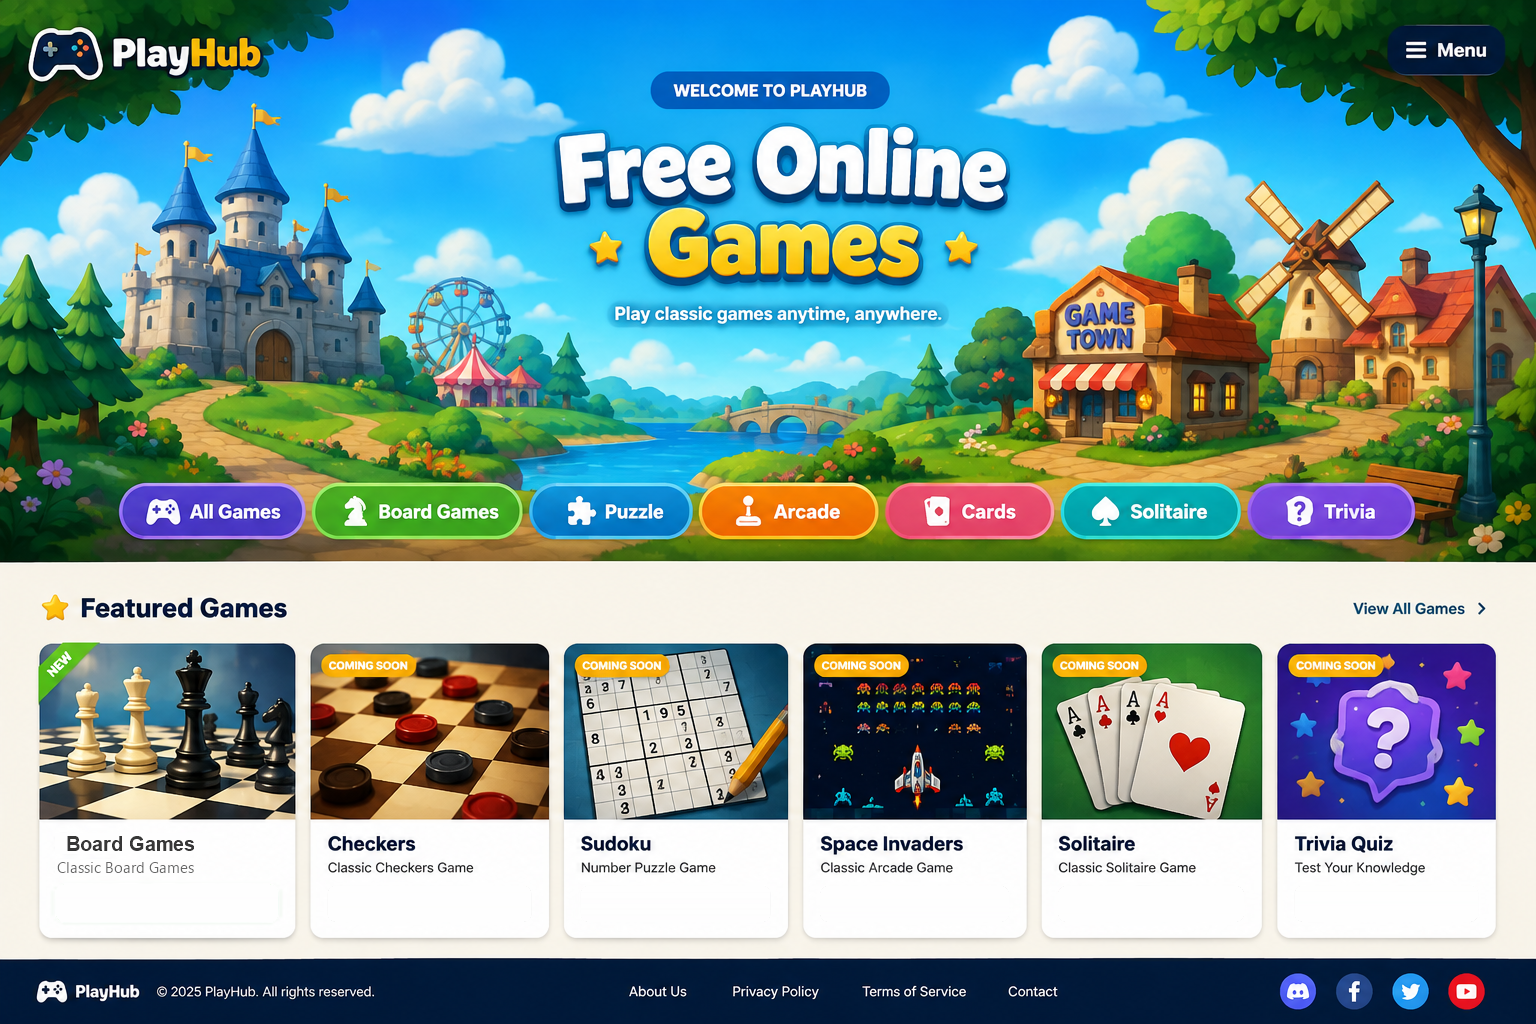
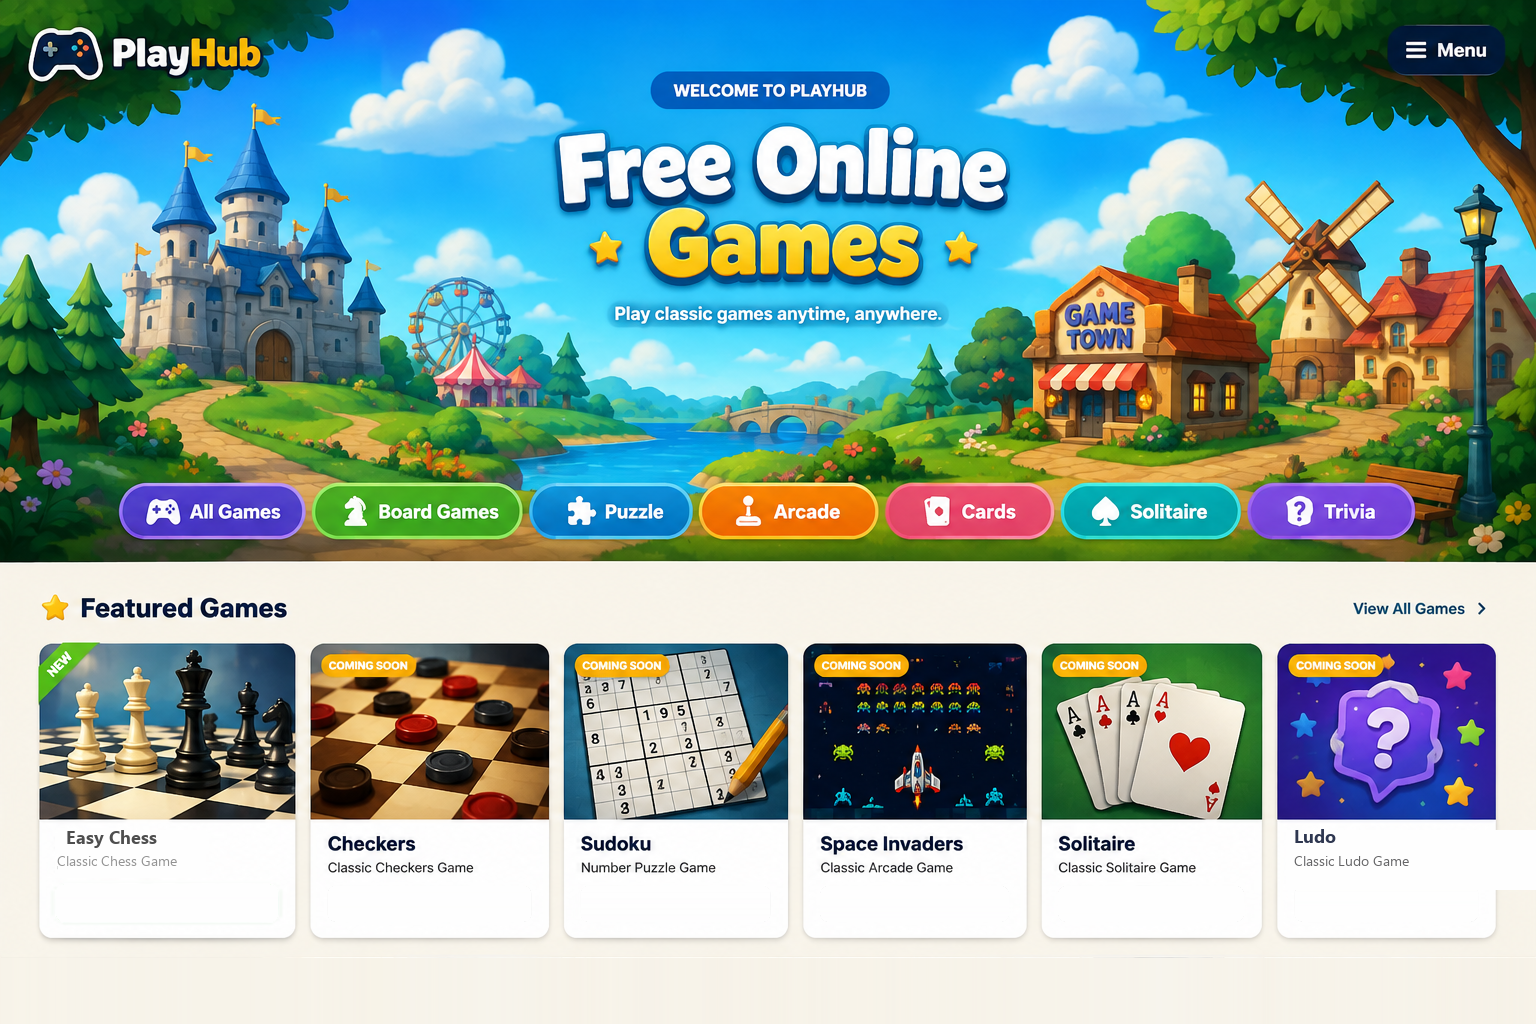
feat(homepage): add Ludo & Easy Chess iframes, clear footer band
- homepage.png: clear dark footer band to whitespace; rename Chess card to Easy Chess; turn Quiz card into Ludo

- games/chess.html: embed playpager.com/easy-chess via <iframe> (allow=autoplay; fullscreen, loading=lazy)

- index.html: remove More Games menu; add Ludo hotspot + PLAY NOW overlay; update alt

- css/style.css: add .overlay-play--ludo

Changed region(s): [[0.0, 0.9375, 1.0, 1.0], [0.0312, 0.8125, 0.125, 0.875], [0.8438, 0.8125, 0.9375, 0.875]]

diff --git a/games/chess.html b/games/chess.html
@@ -3,14 +3,14 @@
 <head>
   <meta charset="UTF-8" />
   <meta name="viewport" content="width=device-width, initial-scale=1.0" />
-  <title>Online Chess - Play Free Chess | PlayHub</title>
+  <title>Easy Chess - Play Free Online Chess | PlayHub</title>
   <meta
     name="description"
     content="Play free online Chess — a full-featured board with legal moves, castling, en passant, pawn promotion, check and checkmate. No download, no sign-up."
   />
   <meta property="og:type" content="website" />
   <meta property="og:site_name" content="PlayHub" />
-  <meta property="og:title" content="Online Chess - Play Free Chess | PlayHub" />
+  <meta property="og:title" content="Easy Chess - Play Free Online Chess | PlayHub" />
   <meta property="og:description" content="Play free online Chess — a full-featured board with legal moves, castling, en passant and more." />
   <meta property="og:image" content="https://wahaha232.github.io/assets/games/chess.webp" />
   <link rel="icon" type="image/svg+xml" href="../assets/favicon.svg" />
@@ -19,8 +19,31 @@
   <link rel="preconnect" href="https://fonts.gstatic.com" crossorigin />
   <link href="https://fonts.googleapis.com/css2?family=Fredoka:wght@400;500;600;700&display=swap" rel="stylesheet" />
   <link rel="stylesheet" href="../css/style.css" />
-  <link rel="stylesheet" href="../css/chess.css" />
-
+  <!-- iframe 嵌入版 Easy Chess：以 playpager.com/easy-chess 提供遊戲，保留 PlayHub 頁面框架 -->
+  <style>
+    .chess-embed {
+      position: relative;
+      width: 100%;
+      max-width: 720px;
+      margin: 0 auto;
+      border-radius: 18px;
+      overflow: hidden;
+      box-shadow: 0 18px 36px rgba(16, 32, 58, 0.18);
+      background: #f7f9fc;
+    }
+    .chess-embed iframe {
+      display: block;
+      width: 100%;
+      height: 620px;
+      border: 0;
+      background: #ffffff;
+    }
+    @media (max-width: 640px) {
+      .chess-embed iframe {
+        height: 520px;
+      }
+    }
+  </style>
   <!-- Google AdSense 載入腳本（已啟用：ca-pub-1512317781873771） -->
   <script async src="https://pagead2.googlesyndication.com/pagead/js/adsbygoogle.js?client=ca-pub-1512317781873771" crossorigin="anonymous"></script>
 </head>
@@ -29,44 +52,21 @@
     <a class="back-link" href="../index.html">← Back to Games</a>
 
     <header class="game-header">
-      <h1>♟ Mini Chess</h1>
+      <h1>♟ Easy Chess</h1>
       <p>Play Free Online · Two Players</p>
     </header>
 
-    <div class="chess-layout">
-      <!-- 棋盤主區 -->
-      <div class="chess-main">
-        <div class="chess-status" id="chess-status" role="status" aria-live="polite" aria-atomic="true">White to move</div>
-        <div class="chess-board" id="chess-board" role="grid" aria-label="Chess board"></div>
-        <div class="chess-controls">
-          <button type="button" id="btn-new">New Game</button>
-          <button type="button" id="btn-undo">Undo</button>
-        </div>
-      </div>
-
-      <!-- 側欄：棋譜 + AdSense 版位 -->
-      <aside class="chess-side">
-        <h2>Move History</h2>
-        <div class="chess-history" id="chess-history">
-          <p class="chess-history__empty">No moves yet.</p>
-        </div>
-
-        <!-- ═══════════════════════════════════════════════════════════
-             AdSense 版位：側欄 300×250 矩形
-             注意：此版位位於棋盤「外側」，絕對不遮蓋棋盤 / 遊戲操作區。
-             中文：啟用時貼上你的 <ins class="adsbygoogle"> 程式碼。
-             ═══════════════════════════════════════════════════════════ -->
-        <div class="ad-slot ad-slot--rect">
-          <span class="ad-slot__label">Advertisement</span>
-          <!-- 啟用後貼上你的 <ins class="adsbygoogle"> 程式碼 -->
-        </div>
-      </aside>
+    <div class="chess-embed">
+      <iframe
+        src="https://playpager.com/easy-chess/"
+        title="Easy Chess — Free Online Chess Game"
+        allow="autoplay; fullscreen"
+        loading="lazy"
+        frameborder="0"
+        scrolling="no"
+        allowfullscreen
+      ></iframe>
     </div>
-
-    <p class="game-note">
-      White moves first. Select a piece, then tap a highlighted square to move.
-      Special moves: castling, en passant and pawn promotion are fully supported.
-    </p>
 
     <article class="content-card how-to-play">
       <h2>How to play Chess</h2>
@@ -79,27 +79,10 @@
       </ul>
     </article>
 
-    <!-- ═══════════════════════════════════════════════════════════
-         AdSense 版位：頁底 Leaderboard（728×90）
-         注意：位於所有遊戲內容「下方」，不遮蓋棋盤。
-         ═══════════════════════════════════════════════════════════ -->
     <div class="ad-slot ad-slot--leaderboard">
       <span class="ad-slot__label">Advertisement</span>
       <!-- 啟用後貼上你的 <ins class="adsbygoogle"> 程式碼 -->
     </div>
   </div>
-
-  <!-- 兵升變選單 -->
-  <div class="promo-modal is-hidden" id="promo-modal" role="dialog" aria-modal="true" aria-labelledby="promo-title">
-    <div class="promo-box">
-      <button class="promo-close" id="promo-close" type="button" aria-label="Close">×</button>
-      <p id="promo-title">Promote pawn to</p>
-      <div class="promo-pieces" id="promo-pieces"></div>
-    </div>
-  </div>
-
-  <!-- 西洋棋引擎（規則邏輯）與 UI（介面）分離 -->
-  <script src="../js/chess.js"></script>
-  <script src="../js/chess-ui.js"></script>
 </body>
 </html>

diff --git a/index.html b/index.html
@@ -47,13 +47,14 @@
         class="design-shot"
         src="homepage.png"
         usemap="#playhub-map"
-        alt="PlayHub homepage — WELCOME TO PLAYHUB, game categories and featured games: Chess, Checkers, Sudoku, Space Invaders, Solitaire, Quiz"
+        alt="PlayHub homepage — WELCOME TO PLAYHUB, game categories and featured games: Chess, Checkers, Sudoku, Space Invaders, Solitaire, Ludo"
         width="1536"
         height="1024"
       />
       <a class="overlay-play overlay-play--chess" href="games/chess.html" title="Play Chess — Classic Chess Game">PLAY NOW</a>
       <a class="overlay-play overlay-play--checkers" href="games/checkers.html" title="Play Checkers — Classic Checkers Game">PLAY NOW</a>
       <a class="overlay-play overlay-play--solitaire" href="games/solitaire.html" title="Play Solitaire — Classic Solitaire Game">PLAY NOW</a>
+      <a class="overlay-play overlay-play--ludo" href="games/ludo.html" title="Play Ludo — Classic Ludo Game">PLAY NOW</a>
     </div>
 
     <!-- 設計圖上的互動熱區：點卡片進入對應遊戲（座標為 1536×1024 原圖座標） -->
@@ -63,33 +64,13 @@
       <area shape="rect" coords="560,614,796,952" href="#games" data-soon="Sudoku" title="Sudoku — Coming Soon" alt="Sudoku — coming soon" />
       <area shape="rect" coords="800,614,1036,952" href="#games" data-soon="Space Invaders" title="Space Invaders — Coming Soon" alt="Space Invaders — coming soon" />
       <area shape="rect" coords="1038,614,1270,952" href="games/solitaire.html" title="Solitaire" alt="Play Solitaire — Classic Solitaire Game" />
-      <area shape="rect" coords="1274,614,1536,952" href="#games" data-soon="Quiz" title="Quiz — Coming Soon" alt="Quiz — coming soon" />
+      <area shape="rect" coords="1274,614,1536,952" href="games/ludo.html" title="Ludo" alt="Play Ludo — Classic Ludo Game" />
 
       <!-- About / Privacy 入口：點設計圖 footer 上的 About US / Privacy Policy 文字進入對應頁面 -->
       <area shape="rect" coords="620,978,700,1005" href="about.html" title="About PlayHub" alt="About PlayHub" />
       <area shape="rect" coords="725,978,830,1005" href="privacy.html" title="Privacy Policy" alt="Privacy Policy" />
       <area shape="rect" coords="1005,978,1070,1005" href="contact.html" title="Contact PlayHub" alt="Contact PlayHub" />
     </map>
-
-    <!-- 遊戲選單：分類列出全部遊戲（Ludo 屬於 Board Games 分類，可由此點入） -->
-    <section class="more-games" aria-labelledby="more-games-title">
-      <h2 class="more-games__title" id="more-games-title">More Games</h2>
-      <div class="more-games__group">
-        <h3 class="more-games__cat">Board Games</h3>
-        <ul class="more-games__list">
-          <li><a href="games/chess.html">♞ Chess</a></li>
-          <li><a href="games/checkers.html">⬤ Checkers</a></li>
-          <li><a href="games/ludo.html">🎲 Ludo <span class="more-games__tag">New</span></a></li>
-          <li><a href="games/othello.html">⬤ Othello</a></li>
-          <li><a href="games/morris.html">✦ Nine Men's Morris</a></li>
-          <li><a href="games/backgammon.html">⚀ Backgammon</a></li>
-          <li><a href="games/snakes-ladders.html">🐍 Snakes &amp; Ladders</a></li>
-          <li><a href="games/dominoes.html">🁢 Dominoes</a></li>
-          <li><a href="games/battleship.html">🚢 Battleship</a></li>
-          <li><a href="games/solitaire.html">🃏 Solitaire</a></li>
-        </ul>
-      </div>
-    </section>
 
     <!-- ═══════════════════════════════════════════════════════════
          AdSense 版位：Leaderboard（728×90）

diff --git a/css/style.css b/css/style.css
@@ -739,6 +739,7 @@ a {
 .overlay-play--chess { left: 5.13%; }
 .overlay-play--checkers { left: 22.19%; }
 .overlay-play--solitaire { left: 69.32%; }
+.overlay-play--ludo { left: 85.66%; }
 
 .overlay-play:hover {
   background: linear-gradient(180deg, #1b8f20 0%, #15821a 100%);
